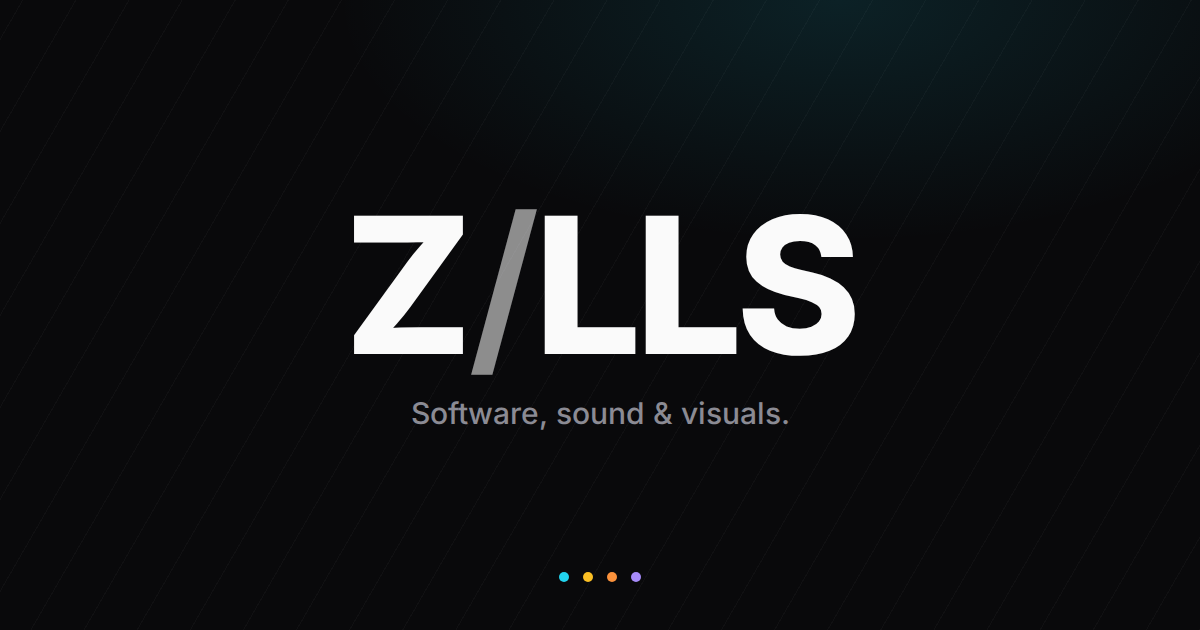
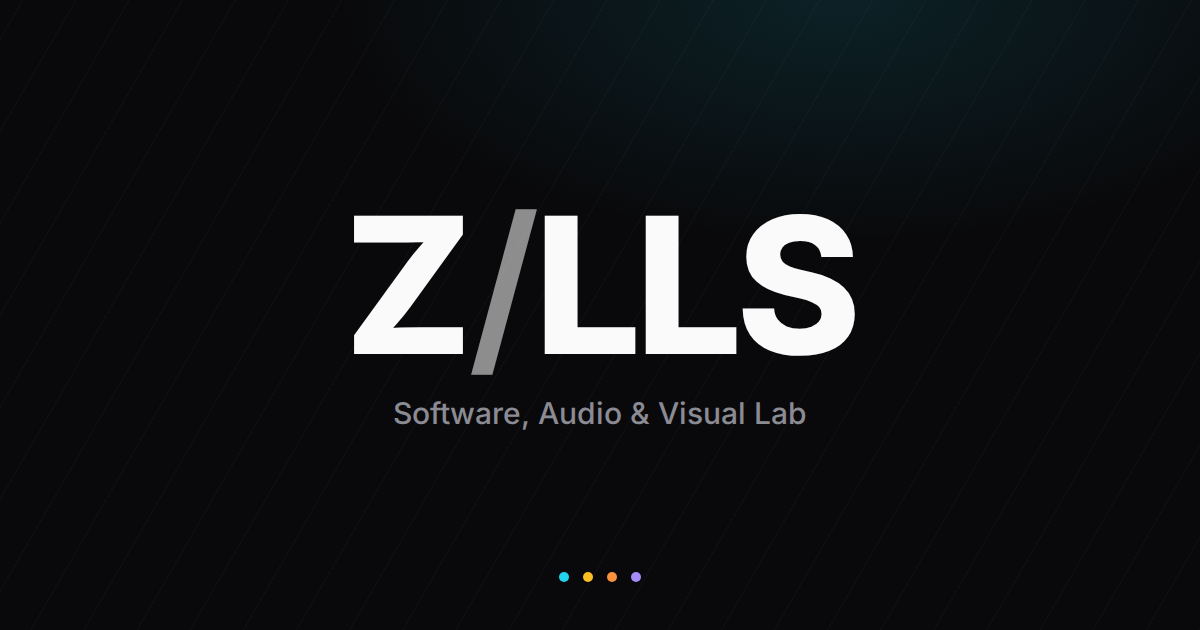
feat: tagline 'Software, Audio & Visual Lab'

Changed region(s): [[0.3083, 0.6333, 0.6783, 0.6937]]

diff --git a/index.html b/index.html
@@ -3,13 +3,13 @@
   <head>
     <meta charset="UTF-8" />
     <meta name="viewport" content="width=device-width, initial-scale=1.0" />
-    <title>Zills — Software, sound &amp; visuals</title>
+    <title>Z/LLS — Software, Audio &amp; Visual Lab</title>
     <meta name="description" content="Zills: open-source software, audio, plugins and visual experiments." />
     <link rel="canonical" href="https://zills.io/" />
     <link rel="icon" type="image/svg+xml" href="/favicon.svg" />
     <meta name="theme-color" content="#09090b" />
     <meta property="og:site_name" content="Zills" />
-    <meta property="og:title" content="Zills — Software, sound &amp; visuals" />
+    <meta property="og:title" content="Z/LLS — Software, Audio &amp; Visual Lab" />
     <meta property="og:description" content="Open-source software, audio, plugins and visual experiments." />
     <meta property="og:type" content="website" />
     <meta property="og:url" content="https://zills.io/" />

diff --git a/src/meta.test.ts b/src/meta.test.ts
@@ -6,7 +6,7 @@ const publicFiles = Object.keys(import.meta.glob('../public/*', { query: '?url' 
 
 describe('page head', () => {
   it('has the title, description and canonical URL', () => {
-    expect(html).toContain('<title>Zills — Software, sound &amp; visuals</title>')
+    expect(html).toContain('<title>Z/LLS — Software, Audio &amp; Visual Lab</title>')
     expect(html).toMatch(/<meta name="description" content="[^"]+"/)
     expect(html).toContain('<link rel="canonical" href="https://zills.io/" />')
   })

diff --git a/src/components/Logo.tsx b/src/components/Logo.tsx
@@ -8,7 +8,7 @@ export function Logo({ className = '' }: { className?: string }) {
       >
         Z<span className="font-semibold text-fg/55">/</span>LLS
       </h1>
-      <p className="mt-3.5 text-muted text-[15px] shards:text-lg">Software, sound &amp; visuals.</p>
+      <p className="mt-3.5 text-muted text-[15px] shards:text-lg">Software, Audio &amp; Visual Lab</p>
     </div>
   )
 }

diff --git a/scripts/og-image.html b/scripts/og-image.html
@@ -18,6 +18,6 @@
 </style></head>
 <body>
   <h1>Z<span>/</span>LLS</h1>
-  <p>Software, sound &amp; visuals.</p>
+  <p>Software, Audio &amp; Visual Lab</p>
   <div class="dots"><i style="background:#22d3ee"></i><i style="background:#fbbf24"></i><i style="background:#fb923c"></i><i style="background:#a78bfa"></i></div>
 </body></html>

diff --git a/src/components/Logo.test.tsx b/src/components/Logo.test.tsx
@@ -9,5 +9,6 @@ describe('Logo', () => {
     expect(html).toContain('aria-label="Zills"')
     // The slash is its own span, so check the visible text with tags stripped.
     expect(html.replace(/<[^>]+>/g, '')).toContain('Z/LLS')
+    expect(html).toContain('Software, Audio &amp; Visual Lab')
   })
 })
